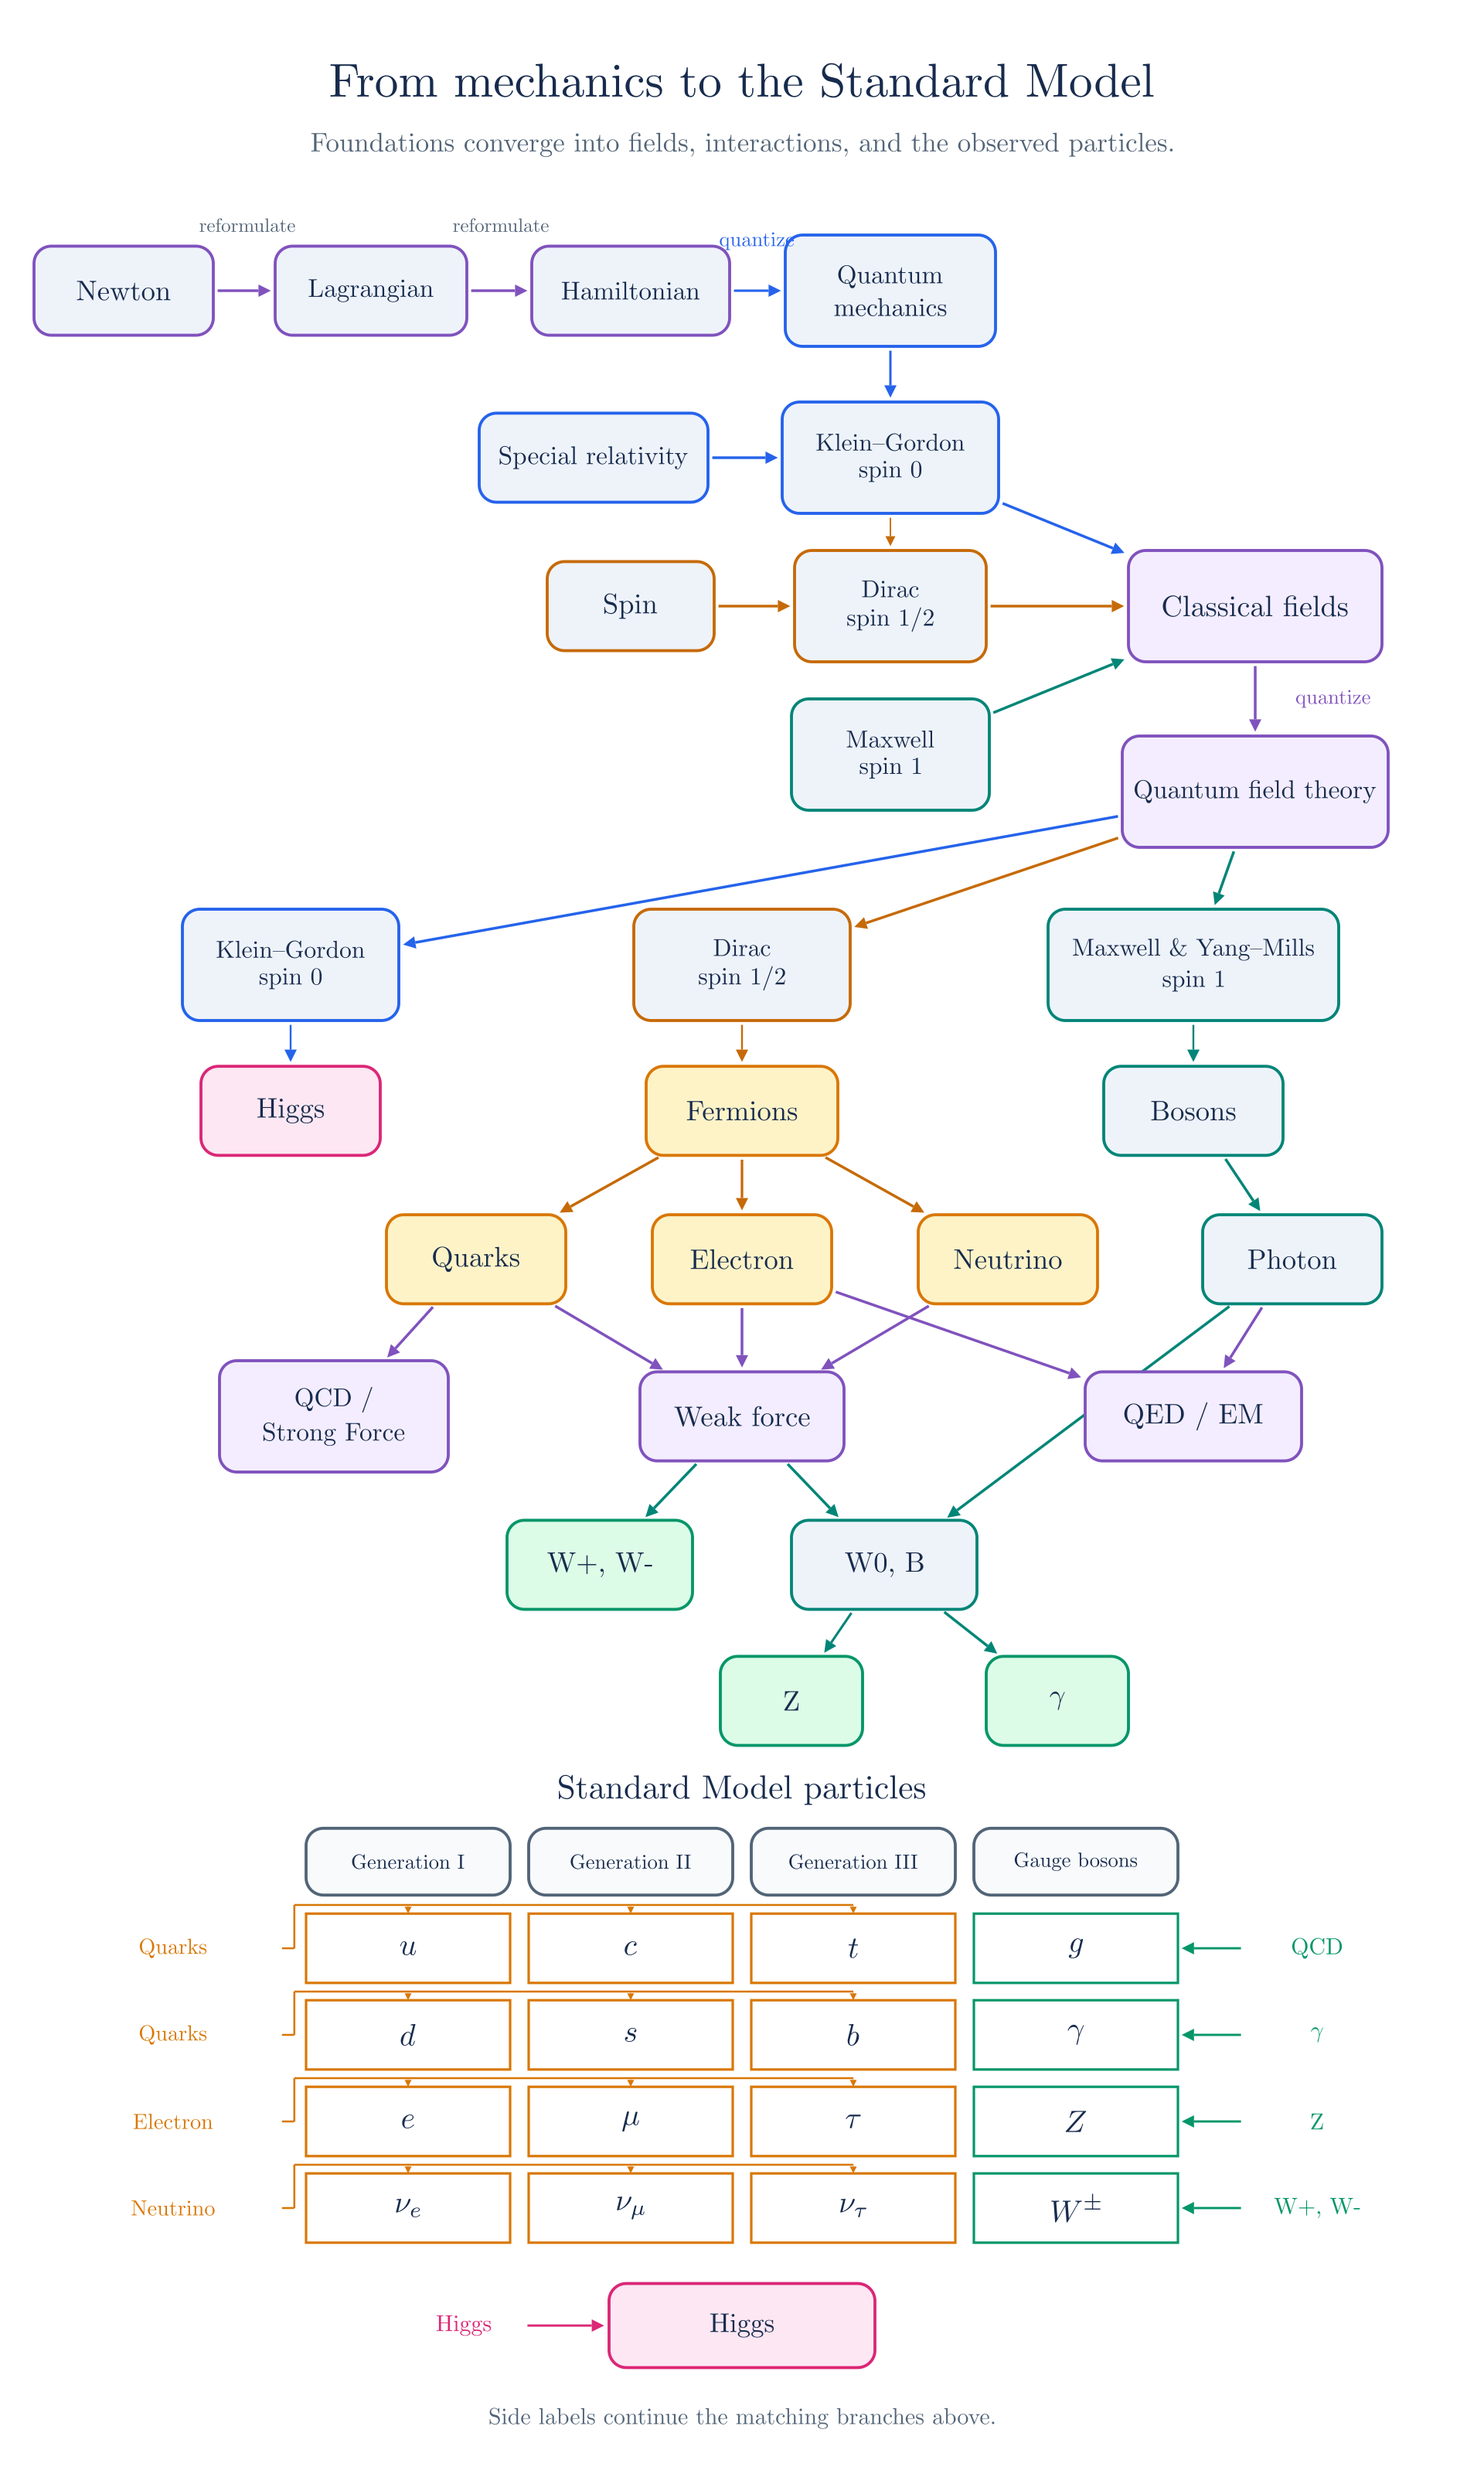
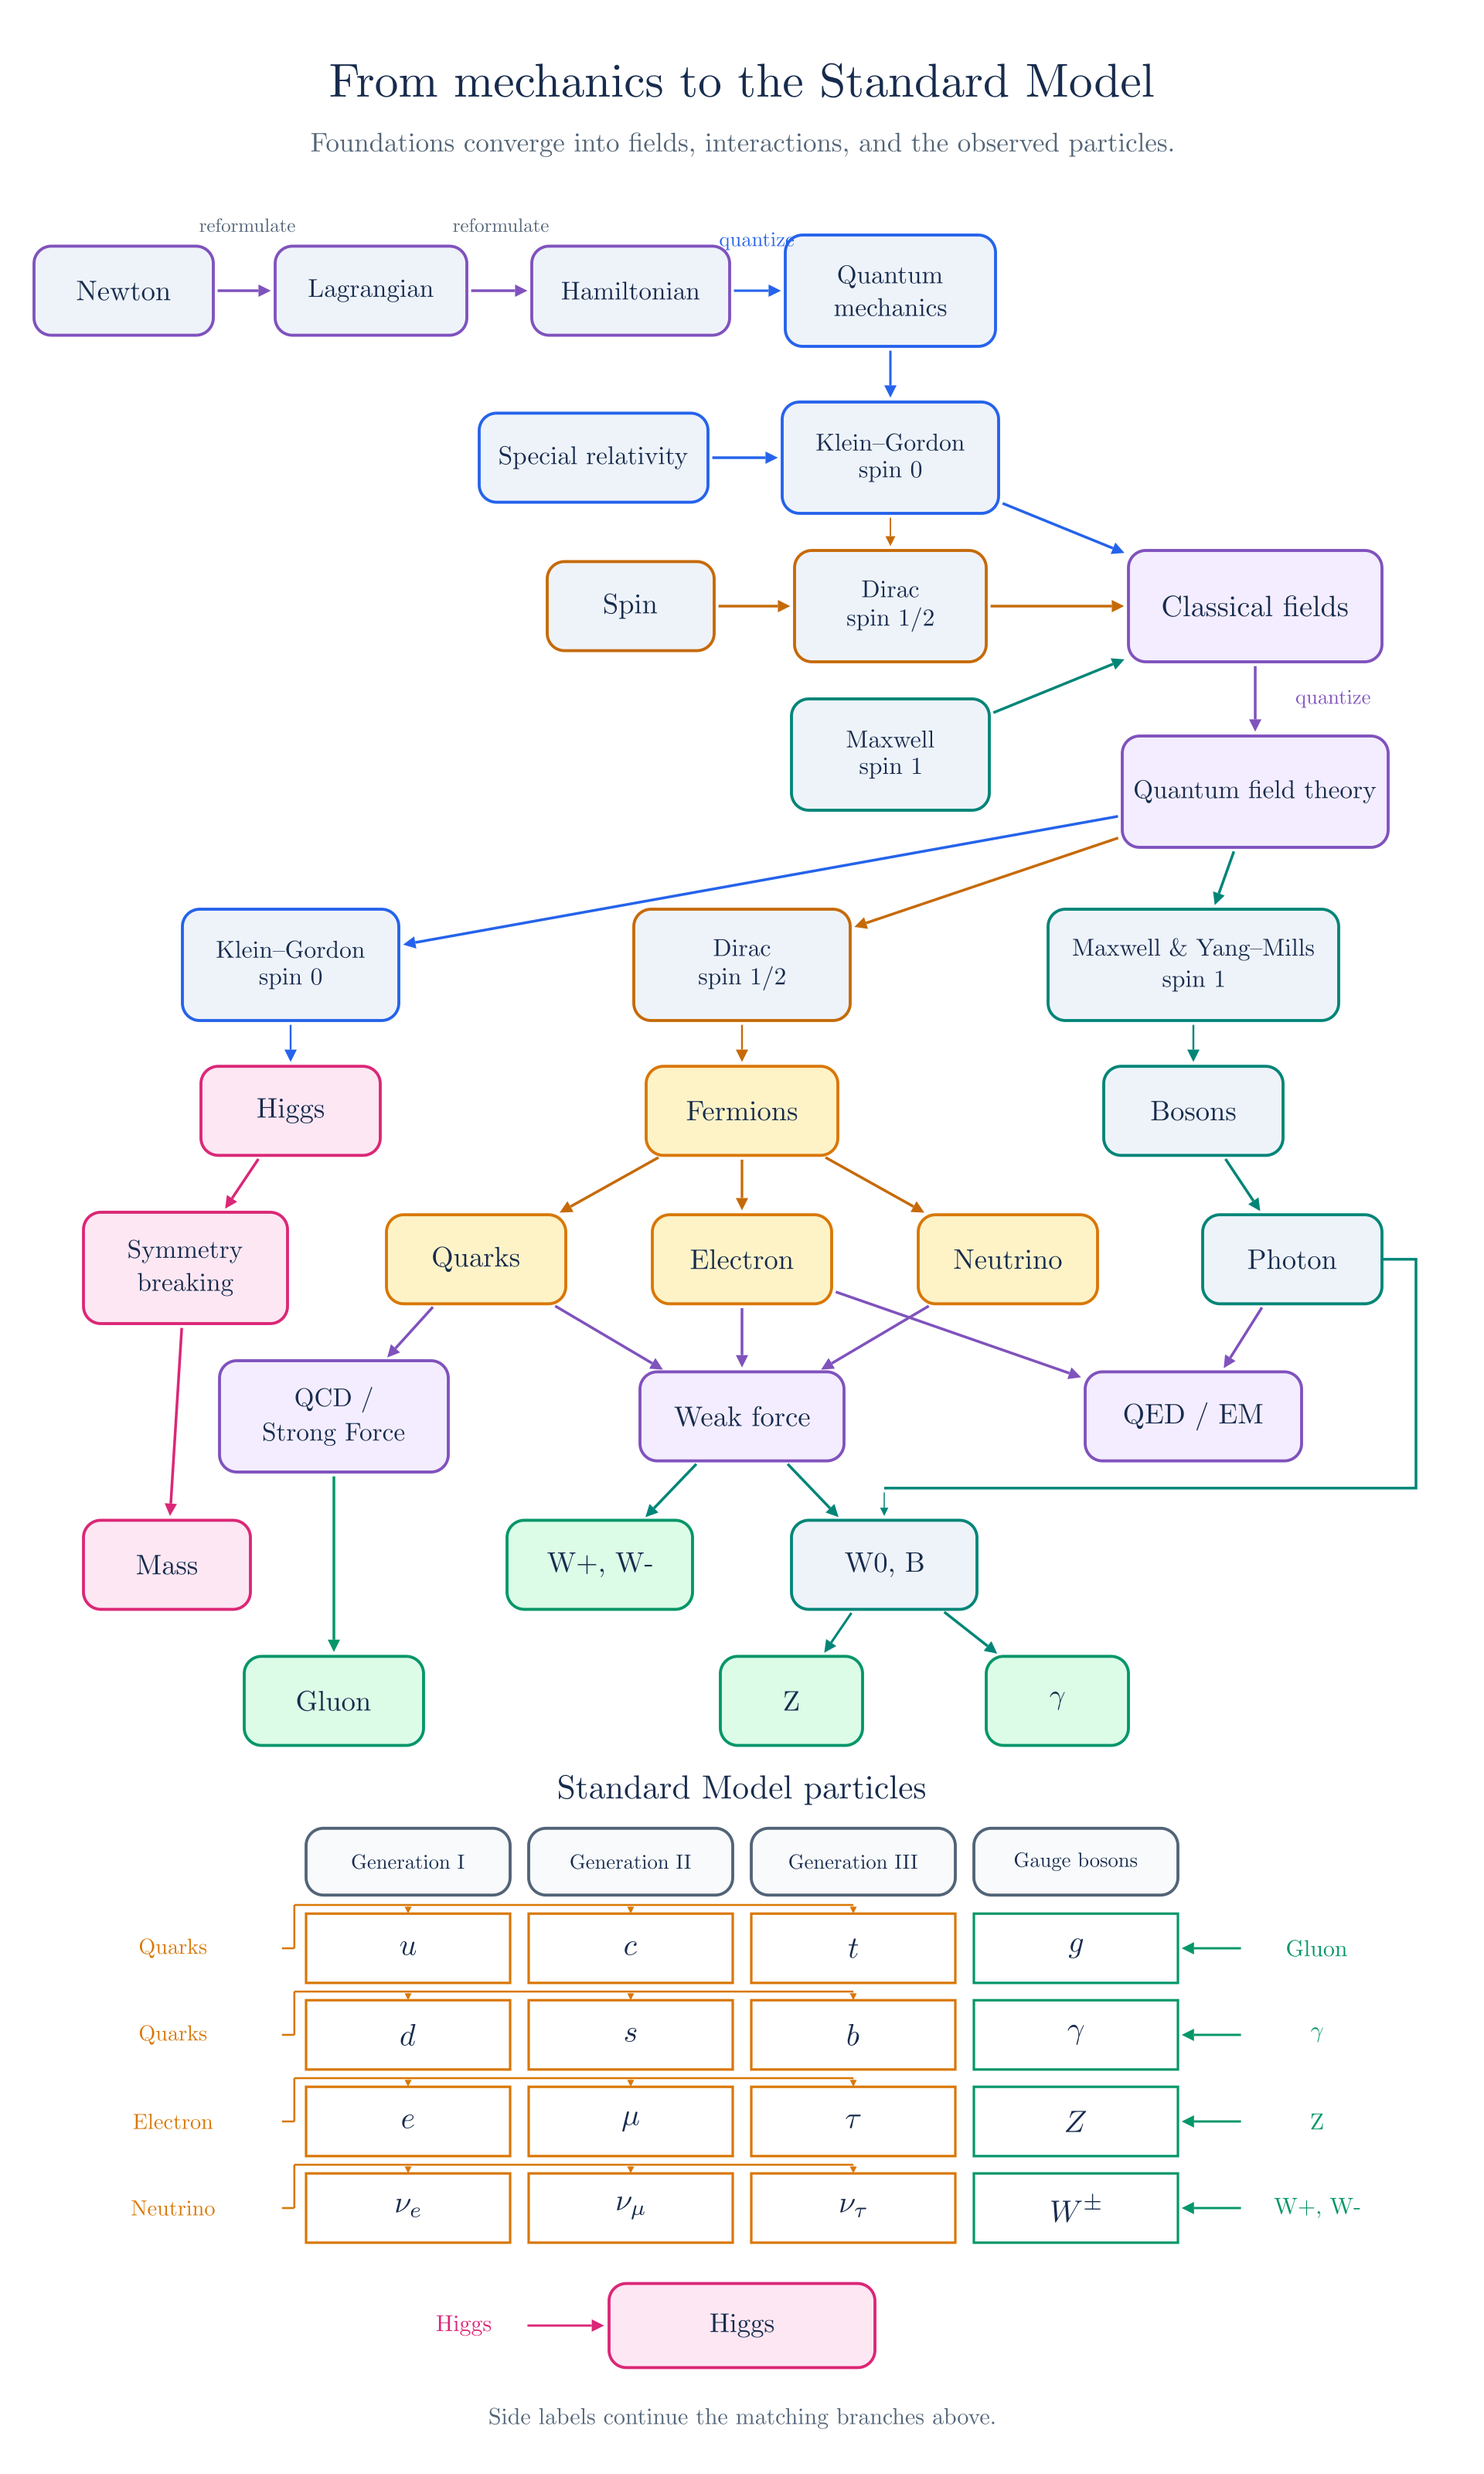
Connect Higgs mass generation and gluons in physics roadmap

diff --git a/docs/manim/mindmap.py b/docs/manim/mindmap.py
@@ -34,6 +34,7 @@ class PhysicsRoadmap(Scene):
             'quarks':(-2.15,-.18,0),'electron':(0,-.18,0),'neutrino':(2.15,-.18,0),'photon':(4.45,-.18,0),
             'qcd':(-3.3,-1.45,0),'weak':(0,-1.45,0),'qed':(3.65,-1.45,0),
             'wch':(-1.15,-2.65,0),'wneut':(1.15,-2.65,0),'z':(.4,-3.75,0),'gamma':(2.55,-3.75,0),
+            'breaking':(-4.5,-.25,0),'mass':(-4.65,-2.65,0),'gluon':(-3.3,-3.75,0),
         }
         links=[('newton','lagrange',PURPLE),('lagrange','hamilton',PURPLE),('hamilton','qm',BLUE),
           ('qm','kg',BLUE),('sr','kg',BLUE),('kg','dirac',ORANGE),('spin','dirac',ORANGE),
@@ -44,7 +45,8 @@ class PhysicsRoadmap(Scene):
           ('quarks','qcd',PURPLE),('electron','qed',PURPLE),('photon','qed',PURPLE),
           ('quarks','weak',PURPLE),('electron','weak',PURPLE),('neutrino','weak',PURPLE),
           ('weak','wch',TEAL),('weak','wneut',TEAL),('wneut','z',TEAL),('wneut','gamma',TEAL),
-          ('photon','wneut',TEAL)]
+          ('photon','wneut',TEAL),('higgs','breaking',HIGGS),('breaking','mass',HIGGS),
+          ('qcd','gluon',GREEN)]
         node_start = len(self.mobjects)
         self.add(
           node('Newton',p['newton'],1.45,color=PURPLE),node('Lagrangian',p['lagrange'],1.55,color=PURPLE,size=20),
@@ -60,7 +62,10 @@ class PhysicsRoadmap(Scene):
           node('Photon',p['photon'],1.45,color=TEAL),node('QCD /\nStrong Force',p['qcd'],1.85,.9,PURPLE,20,'#f3edff'),
           node('Weak force',p['weak'],1.65,color=PURPLE,fill='#f3edff'),node('QED / EM',p['qed'],1.75,color=PURPLE,fill='#f3edff'),
           node('W+, W-',p['wch'],1.5,color=GREEN,fill='#dcfce7'),node('W0, B',p['wneut'],1.5,color=TEAL),
-          node('Z',p['z'],1.15,color=GREEN,fill='#dcfce7'),node('γ',p['gamma'],1.15,color=GREEN,fill='#dcfce7'))
+          node('Z',p['z'],1.15,color=GREEN,fill='#dcfce7'),node('γ',p['gamma'],1.15,color=GREEN,fill='#dcfce7'),
+          node('Symmetry\nbreaking',p['breaking'],1.65,.9,HIGGS,20,'#fce7f3'),
+          node('Mass',p['mass'],1.35,color=HIGGS,fill='#fce7f3'),
+          node('Gluon',p['gluon'],1.45,color=GREEN,fill='#dcfce7'))
         nodes = dict(zip(p, self.mobjects[node_start:]))
         def boundary(key, toward):
             obj = nodes[key][0]
@@ -70,9 +75,9 @@ class PhysicsRoadmap(Scene):
                          (obj.height / 2) / max(abs(delta[1]), 1e-9))
             return center + delta * factor
         for a,b,c in links:
-            if a == 'photon' and b in ('z','gamma'):
-                lane = 5.35 if b == 'z' else 5.65
-                y = -3.18 if b == 'z' else -3.28
+            if a == 'photon' and b == 'wneut':
+                lane = 5.45
+                y = -2.03
                 start = nodes[a][0].get_right()
                 end = nodes[b][0].get_top()
                 points = [start, np.array([lane,start[1],0]), np.array([lane,y,0]),
@@ -108,14 +113,14 @@ class PhysicsRoadmap(Scene):
 
         def gauge_link(source, row_index):
             target=positions[(row_index,3)]
-            title={'qcd':'QCD','gamma':'γ','z':'Z','wch':'W+, W-'}[source]
+            title={'gluon':'Gluon','gamma':'γ','z':'Z','wch':'W+, W-'}[source]
             self.add(label(title,4.65,target[1],18,GREEN,width=1.45),
                      edge([4.05,target[1],0],[3.54,target[1],0],GREEN,1.8,.015))
 
         row_bus('quarks',[0,1],AMBER)
         row_bus('electron',[2],AMBER)
         row_bus('neutrino',[3],AMBER)
-        gauge_link('qcd',0); gauge_link('gamma',1); gauge_link('z',2); gauge_link('wch',3)
+        gauge_link('gluon',0); gauge_link('gamma',1); gauge_link('z',2); gauge_link('wch',3)
         self.add(label('Higgs',-2.25,higgs_cell[1],18,HIGGS),
                  edge([-1.75,higgs_cell[1],0],[-1.10,higgs_cell[1],0],HIGGS,1.8,.015))
         self.add(label('Standard Model particles',0,top+.58,26))
